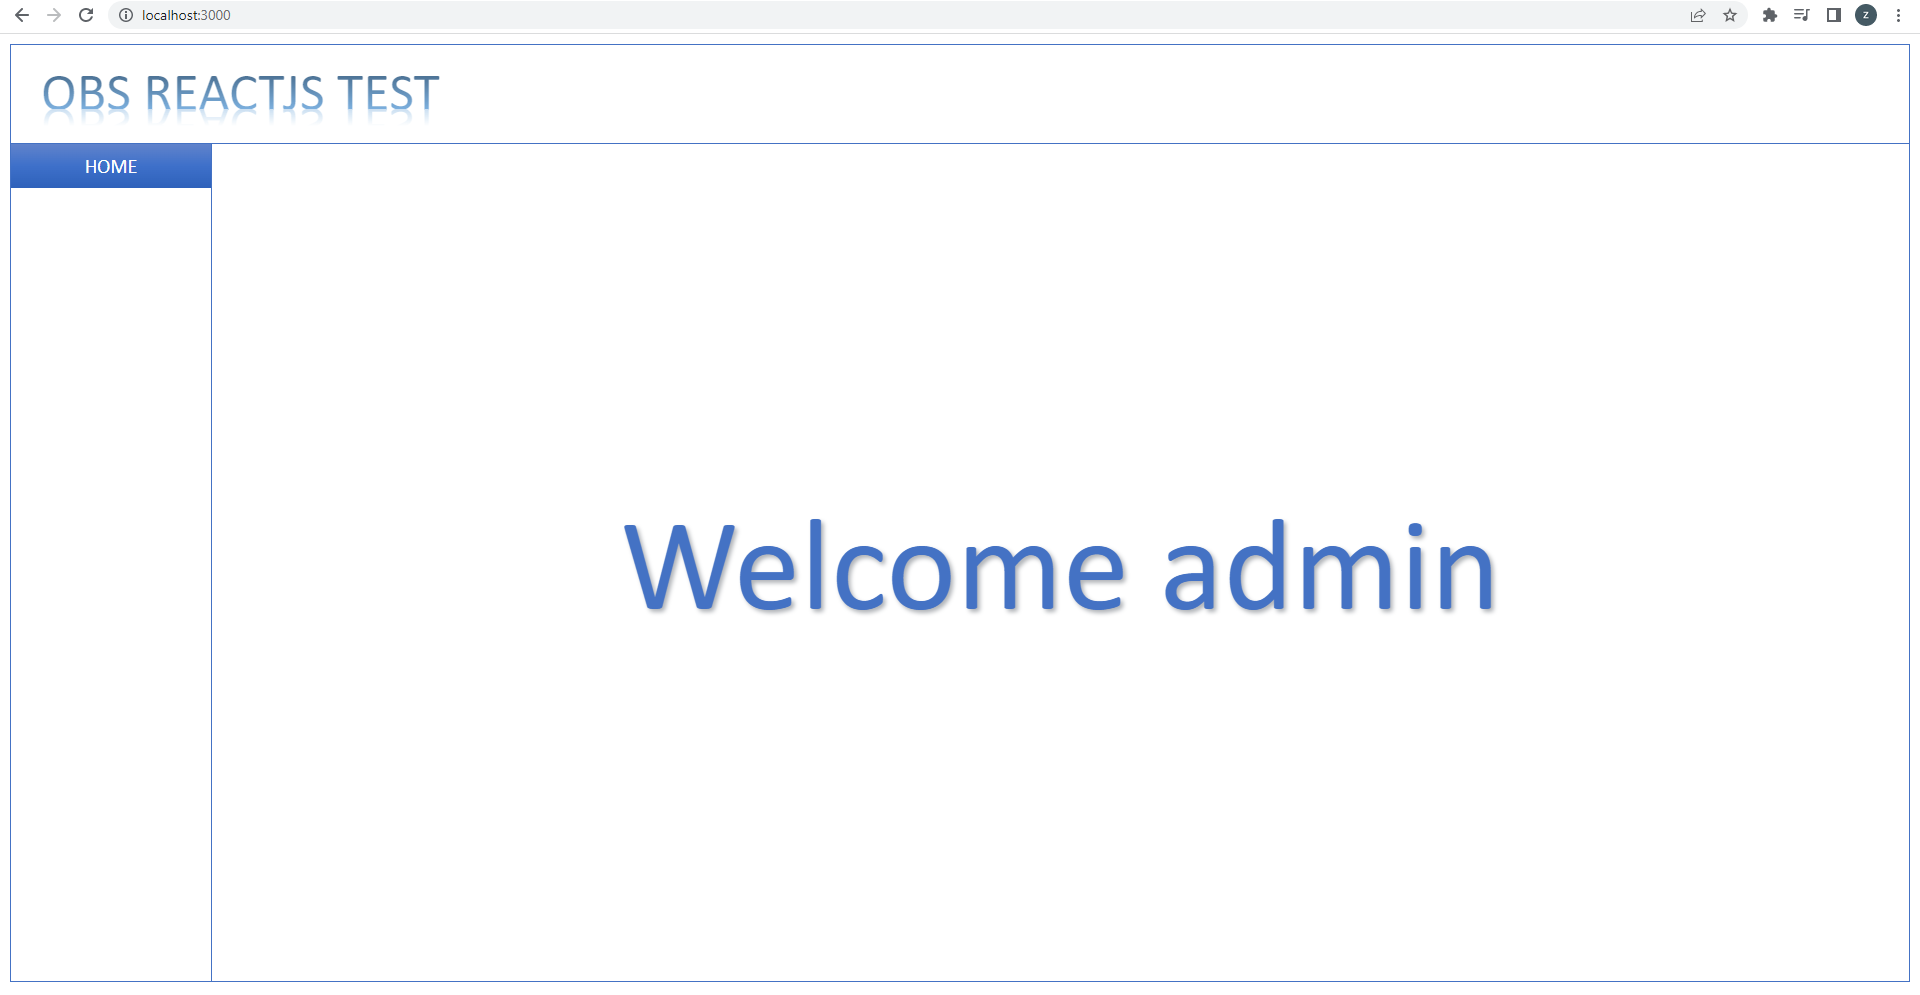
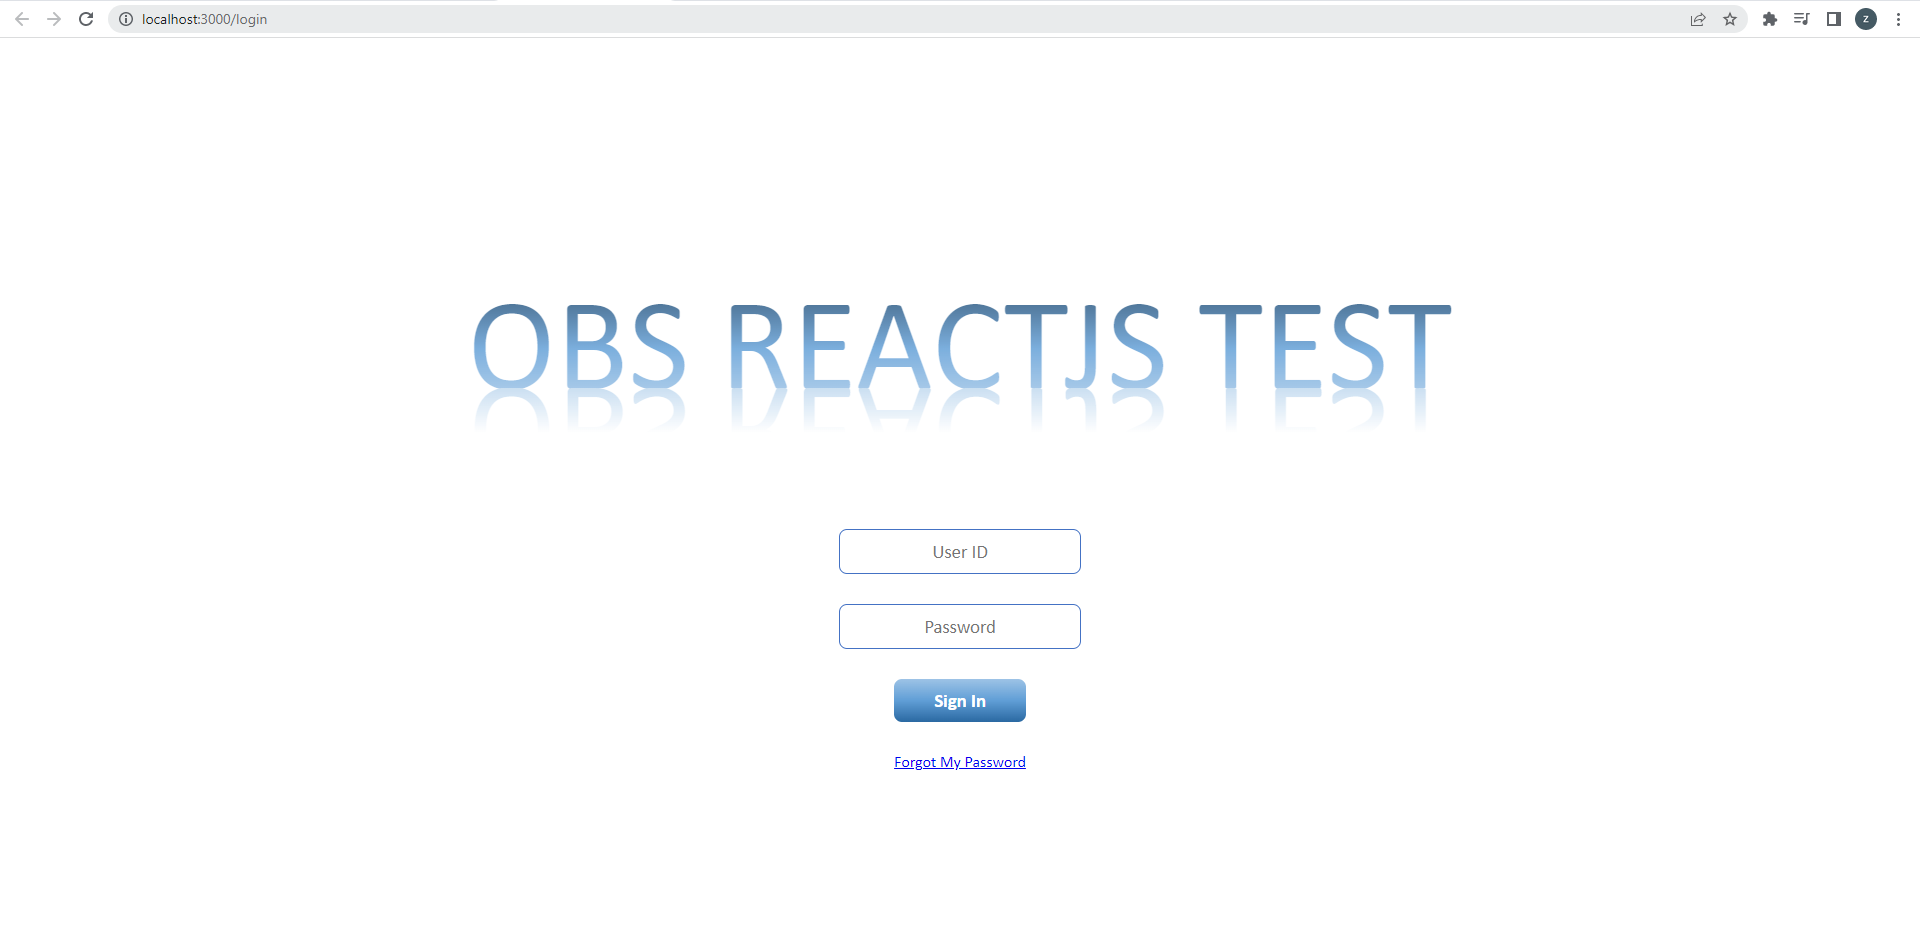
update : resize login input field, title, reformat code

diff --git a/src/pages/welcome.js b/src/pages/welcome.js
@@ -1,40 +1,24 @@
 import React, {useContext} from 'react';
 import {UserContext} from "../context/user.context";
-
+import welcomeStyle from "./welcome.module.css"
 const Welcome = () => {
     const {user} = useContext(UserContext)
     return (
-        <div style={{padding: '10px'}}>
-            <div style={{border: '1px solid #4472C4', height: 'calc(100vh - 25px)'}}>
-                <div className={'header'}
-                     style={{padding: "30px", overflow: 'hidden', borderBottom: '1px solid #4472C4',}}>
-                    <h1 className={'header-title'} style={{margin: '0', marginBottom: '-30px',}}>OBS
-                        REACTJS TEST</h1>
+        <div className={welcomeStyle.container}>
+            <div className={welcomeStyle.wrapper}>
+                <div className={welcomeStyle.header} >
+                    <h1 className={welcomeStyle.headerTitle}>
+                        OBS REACTJS TEST
+                    </h1>
                 </div>
-                <div style={{display: 'flex', height: 'calc(100% - 60px - 38px)'}}>
-                    <div className={'sidebar'} style={{width: '200px', borderRight: '1px solid #4472C4'}}>
-                        <button style={{
-                            width:'100%',
-                            border:0,
-                            background:"linear-gradient(#6083CB,#3E70CA,#2E61BA)",
-                            color:'#fff',
-                            fontSize:'15pt',
-                            padding:'10px',
-                        }}>HOME</button>
+                <div className={welcomeStyle.wrapperMain}>
+                    <div className={welcomeStyle.sidebar}>
+                        <button className={welcomeStyle.menu}>
+                            HOME
+                        </button>
                     </div>
-                    <div className={'content'} style={{
-                        width: 'calc(100% - 200px)',
-                        height: '100%',
-                        display: "flex",
-                        justifyContent: 'center',
-                        alignItems: 'center'
-                    }}>
-                        <h2 style={{
-                            fontWeight: '400',
-                            fontSize: "100pt",
-                            color: "#4472C4",
-                            textShadow: '2pt 2pt 3pt #6E747A89',
-                        }}>Welcome {user.user_id}</h2>
+                    <div className={welcomeStyle.content} >
+                        <h2 className={welcomeStyle.welcomeMessage}>Welcome {user.user_id}</h2>
                     </div>
                 </div>
             </div>

diff --git a/src/pages/login.js b/src/pages/login.js
@@ -1,5 +1,6 @@
 import React, {useCallback, useContext} from 'react';
 import {UserContext} from "../context/user.context";
+import loginStyle from './login.module.css'
 
 const Login = () => {
     const {setUser} = useContext(UserContext)
@@ -14,49 +15,24 @@ const Login = () => {
     }, [])
     return (
         <form onSubmit={handleSubmit}>
-            <div style={{
-                display: 'flex',
-                alignItems: 'center',
-                flexDirection: 'column',
-                height: '100vh',
-                justifyContent: 'center',
-                gap: '20px'
-            }}>
-                <h1 className={'header-title'}>OBS REACTJS TEST</h1>
+            <div className={loginStyle.container}>
+                <h1 className={loginStyle.headerTitle}>OBS REACTJS TEST</h1>
                 <input
                     type={'text'}
                     name={'user_id'}
                     placeholder={"User ID"}
-                    style={{
-                        textAlign: 'center',
-                        padding: '10px 20px',
-                        borderRadius: '8px',
-                        border: '1px solid #4472C4'
-                    }}
+                    className={loginStyle.inputText}
                     required
                 />
                 <input
                     type={'password'}
                     name={'password'}
                     placeholder={"Password"}
-                    style={{
-                        textAlign: 'center',
-                        padding: '10px 20px',
-                        borderRadius: '8px',
-                        border: '1px solid #4472C4'
-                    }}
+                    className={loginStyle.inputText}
                     required
                 />
-                <button type={"submit"} style={{
-                    padding: '10px 20px',
-                    background: 'linear-gradient(#9DC3E6,#609ED6,#2A69A2)',
-                    color: "#FFF",
-                    borderRadius: "8px",
-                    border: "0px",
-                    fontWeight: '700',
-                    cursor: "pointer",
-                    marginTop: "25px"
-                }}>Sign In
+                <button type={"submit"} className={loginStyle.buttonSubmit}>
+                    Sign In
                 </button>
                 <a href={"#"}>Forgot My Password</a>
             </div>

diff --git a/src/pages/welcome.module.css b/src/pages/welcome.module.css
@@ -1,0 +1,71 @@
+.container{
+    padding: 10px
+}
+
+.wrapper{
+    border: 1px solid #4472C4;
+    height: calc(100vh - 25px);
+}
+
+.header{
+    padding: 30px;
+    overflow: hidden;
+    border-bottom: 1px solid #4472C4;
+}
+
+.headerTitle{
+    font-size:54px;
+    background: -webkit-linear-gradient(#1F4E79,#5B9BD5,#9DC3E6);
+    -webkit-background-clip: text;
+    line-height: 34px;
+    -webkit-text-fill-color: transparent;
+    max-height: 100px;
+    opacity: .8;
+    font-weight: 500;
+    margin: 0;
+    margin-bottom: -30px;
+}
+
+.headerTitle:after{
+    line-height: 34px;
+    content: "OBS REACTJS TEST";
+    display: flex;
+    transform:rotateX(180deg);
+    background-image: linear-gradient(#fff 50%,#BDD7EE);
+    -webkit-background-clip: text;
+    color: transparent;
+}
+
+.wrapperMain{
+    display: flex;
+    height: calc(100% - 60px - 38px);
+}
+
+.sidebar{
+    width: 200px;
+    border-right: 1px solid #4472C4;
+}
+
+.menu{
+    width: 100%;
+    border: 0;
+    background: linear-gradient(#6083CB,#3E70CA,#2E61BA);
+    color: #fff;
+    font-size: 15pt;
+    padding: 10px;
+}
+
+.content{
+    width: calc(100% - 200px);
+    height: 100%;
+    display: flex;
+    justify-content: center;
+    align-items: center;
+}
+
+.welcomeMessage{
+    font-weight: 400;
+    font-size: 100pt;
+    color: #4472C4;
+    text-shadow: 2pt 2pt 3pt #6E747A89;
+}

diff --git a/src/pages/login.module.css b/src/pages/login.module.css
@@ -1,0 +1,51 @@
+.container {
+    display: flex;
+    align-items: center;
+    flex-direction: column;
+    height: 100vh;
+    justify-content: center;
+    gap: 30px;
+}
+
+.headerTitle {
+    font-size: 100pt;
+    background: -webkit-linear-gradient(#1F4E79, #5B9BD5, #9DC3E6);
+    -webkit-background-clip: text;
+    line-height: 89px;
+    -webkit-text-fill-color: transparent;
+    max-height: 100px;
+    opacity: .8;
+    font-weight: 500;
+    margin-bottom: 100px;
+}
+
+.headerTitle:after {
+    line-height: 90px;
+    content: "OBS REACTJS TEST";
+    display: flex;
+    transform: rotateX(180deg);
+    background-image: linear-gradient(#fff 50%, #BDD7EE);
+    -webkit-background-clip: text;
+    color: transparent;
+}
+
+.inputText {
+    text-align: center;
+    padding: 10px 20px;
+    border-radius: 8px;
+    border: 1px solid #4472C4;
+    font-size: 14pt;
+    width: 200px;
+}
+
+.buttonSubmit {
+    padding: 10px 40px;
+    background: linear-gradient(#9DC3E6, #609ED6, #2A69A2);
+    color: #FFF;
+    border-radius: 8px;
+    border: 0px;
+    font-weight: 700;
+    cursor: pointer;
+    marginTop: 25px;
+    font-size: 14pt;
+}

diff --git a/src/App.css b/src/App.css
@@ -1,27 +1,6 @@
 * > *{
     font-family: Calibri;
 }
-.header-title{
-    font-size:54px;
-    background: -webkit-linear-gradient(#1F4E79,#5B9BD5,#9DC3E6);
-    -webkit-background-clip: text;
-    line-height: 34px;
-    -webkit-text-fill-color: transparent;
-    max-height: 100px;
-    opacity: .8;
-    font-weight: 500;
-    margin-bottom: 20px;
-}
-
-.header-title:after{
-    line-height: 34px;
-    content: "OBS REACTJS TEST";
-    display: flex;
-    transform:rotateX(180deg);
-    background-image: linear-gradient(#fff 50%,#BDD7EE);
-    -webkit-background-clip: text;
-    color: transparent;
-}
 
 input:focus-visible{
     outline: none;

diff --git a/README.md b/README.md
@@ -3,6 +3,6 @@
 This project was bootstrapped with [Create React App](https://github.com/facebook/create-react-app).
 
 ## Login page
-![img_1.png](img_1.png)
-## Welcome page
 ![img.png](img.png)
+## Welcome page
+![img_1.png](img_1.png)
